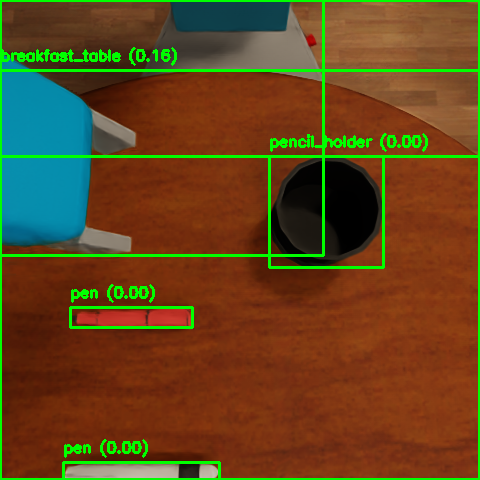
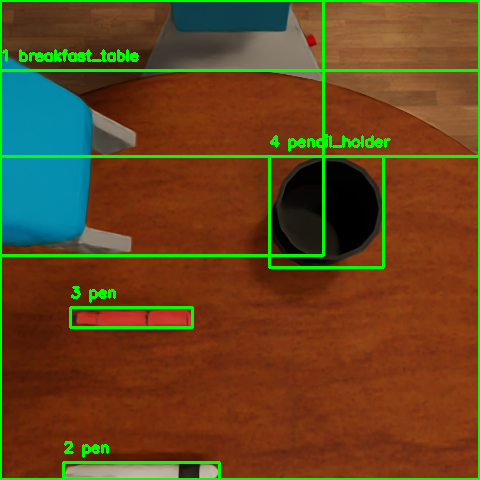
update

diff --git a/examples/process_imgs/segment_instance.py b/examples/process_imgs/segment_instance.py
@@ -259,7 +259,7 @@ def visualize_bboxes_2d(cam_id, rgb_img, bboxes, output_path=None):
     img = rgb_img.copy()
     
     # 为每个边界框绘制矩形和标签
-    for bbox in bboxes:
+    for bi,bbox in enumerate(bboxes):
         # 获取语义类别名称
         semantic_name = semantic_class_id_to_name().get(int(bbox['semantic_id']), 'unknown')
         
@@ -276,7 +276,7 @@ def visualize_bboxes_2d(cam_id, rgb_img, bboxes, output_path=None):
                      (0, 255, 0), 2)
         
         # 添加标签
-        label = f"{semantic_name} ({bbox['occlusion']:.2f})"
+        label = f"{bi} {semantic_name}" # ({bbox['occlusion']:.2f})
         cv2.putText(img, label, 
                     (x_min, y_min - 10),
                     cv2.FONT_HERSHEY_SIMPLEX, 0.5, (0, 255, 0), 2)
